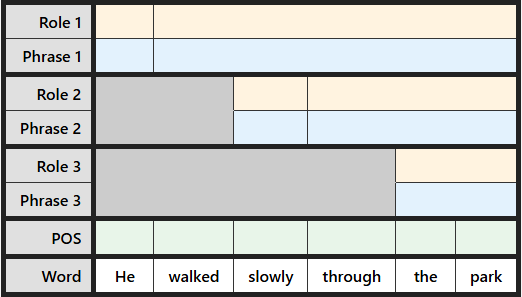
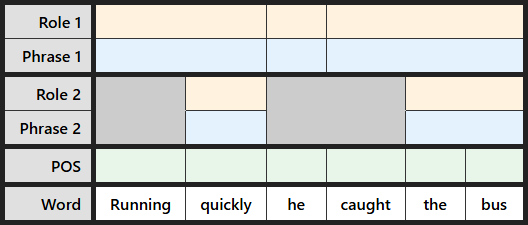
Replace homework Ex 14-16 with NP adverbial, infinitive, and participle sentences
- Ex 14: "The team practiced every afternoon." (NP adverbial)
- Ex 15: "She paused to check her notes." (infinitive adverbial)
- Ex 16: "Running quickly, he caught the bus." (participial adverbial)
Replaced easy AdvP/PP exercises with varied adverbial forms for better practice.

diff --git a/docs/lunr-pretext-search-index.js b/docs/lunr-pretext-search-index.js
@@ -1816,7 +1816,7 @@ var ptx_lunr_docs = [
   "type": "Section",
   "number": "12.9",
   "title": "Homework: Adverbials",
-  "body": " Homework: Adverbials   Part 1: Identification and Classification   Instructions   For each sentence, identify all adverbials, their form, and their semantic role. Use the reference tables below.    Adverbial Forms   AdvP (Adverb Phrase)  PP (Prepositional Phrase)  NP (Noun Phrase)  Infinitive Phrase  Present Participial Phrase  Past Participial Phrase  Dependent Clause     Semantic Role  Question Answered   Time When? How long? How often?  Place Where? In what direction?  Manner How? In what way?  Reason Why? For what reason?  Purpose What for? In order to?  Condition Under what circumstances?  Concession Despite what?    Example (completed)   Yesterday, she worked carefully at the office because she had a deadline.    Adverbial  Form  Semantic Role   Yesterday NP time  carefully AdvP manner  at the office PP place  because she had a deadline Dependent Clause reason    Exercises   Exercise 1.  Last week, the students studied diligently in the library.   Adverbial 1: __________ Form: __________ Semantic role: __________  Adverbial 2: __________ Form: __________ Semantic role: __________  Adverbial 3: __________ Form: __________ Semantic role: __________   Exercise 2.  If you need assistance, call the help desk immediately.   Adverbial 1: __________ Form: __________ Semantic role: __________  Adverbial 2: __________ Form: __________ Semantic role: __________   Exercise 3.  She left early to catch her flight.   Adverbial 1: __________ Form: __________ Semantic role: __________  Adverbial 2: __________ Form: __________ Semantic role: __________     Part 2: Adverbial Scope and Form   Instructions   For each underlined adverbial, state (a) what it modifies and (b) its form. Use the reference tables below.    What Adverbials Can Modify   a verb  an adjective  another adverb  the whole sentence     Adverbial Forms  Example   AdvP (Adverb Phrase) quickly, very carefully  PP (Prepositional Phrase) in the library, with care  NP (Noun Phrase) last week, every morning  Infinitive Phrase to catch the train  Present Participial Phrase knowing the answer  Past Participial Phrase exhausted from the race  Dependent Clause because it rained    Example (completed)   Fortunately , the rain stopped before the game.  Fortunately — modifies: the whole sentence; form: AdvP   Exercises   Exercise 4.  She studied with great focus before the exam.   Modifies: __________  Form: __________   Exercise 5.  Smiling broadly , she accepted the award.   Modifies: __________  Form: __________   Exercise 6.  The results were surprisingly clear.   Modifies: __________  Form: __________   Exercise 7.  He practiced every morning before the competition.   Modifies: __________  Form: __________   Exercise 8.  She left early to catch the train .   Modifies: __________  Form: __________     Part 3: Sentence Completion   Instructions   Add an adverbial of the requested form to complete each sentence.   Example (completed)   Add a dependent clause: __________, you should bring an umbrella.  Answer: If it looks like rain, you should bring an umbrella.   Exercises   Exercise 9. Add a prepositional phrase: __________, the committee will announce its decision.  Answer: __________  Exercise 10. Add a dependent clause: She stayed home __________.  Answer: __________  Exercise 11. Add an infinitive phrase: He went to the store __________.  Answer: __________  Exercise 12. Add a past participial phrase: __________, the runners collapsed at the finish line.  Answer: __________  Exercise 13. Add a present participial phrase: __________, she answered all the questions correctly.  Answer: __________    Part 4: Diagramming Adverbials   Instructions   For each sentence, complete the labeling table (Role, Phrase, Word, POS), write the bracket notation, and draw a tree diagram. Pay special attention to adverbial elements and their phrase types (ADVP, PP, or clausal).   Exercises   Exercise 14.  She spoke very clearly.   Blank labeling table for \"She spoke very clearly\"   Bracket notation: _____ Diagram:  Exercise 15.  The train arrived after midnight.   Blank labeling table for \"The train arrived after midnight\"   Bracket notation: _____ Diagram:  Exercise 16.  He walked slowly through the park.   Blank labeling table for \"He walked slowly through the park\"   Bracket notation: _____ Diagram:  Exercise 17.  Unfortunately, the game was cancelled.   Blank labeling table for \"Unfortunately the game was cancelled\"   Bracket notation: _____ Diagram:  Exercise 18.  She left early because the roads were icy.   Blank labeling table for \"She left early because the roads were icy\"   Bracket notation: _____ Diagram:    Part 5: Analysis and Application   Instructions   Read the passage below and answer the question.   Passage   Yesterday, the researchers finally completed their groundbreaking study. Surprisingly, the results contradicted earlier findings. They had worked diligently for three years because funding was severely limited. Nevertheless, they published their findings in a prestigious journal last month. If additional funding becomes available, they will continue their research next year in a new laboratory.   Exercise   Exercise 19. Identify five adverbials in the passage. For each, state its form and semantic role.   Adverbial 1: __________ Form: __________ Semantic role: __________  Adverbial 2: __________ Form: __________ Semantic role: __________  Adverbial 3: __________ Form: __________ Semantic role: __________  Adverbial 4: __________ Form: __________ Semantic role: __________  Adverbial 5: __________ Form: __________ Semantic role: __________    "
+  "body": " Homework: Adverbials   Part 1: Identification and Classification   Instructions   For each sentence, identify all adverbials, their form, and their semantic role. Use the reference tables below.    Adverbial Forms   AdvP (Adverb Phrase)  PP (Prepositional Phrase)  NP (Noun Phrase)  Infinitive Phrase  Present Participial Phrase  Past Participial Phrase  Dependent Clause     Semantic Role  Question Answered   Time When? How long? How often?  Place Where? In what direction?  Manner How? In what way?  Reason Why? For what reason?  Purpose What for? In order to?  Condition Under what circumstances?  Concession Despite what?    Example (completed)   Yesterday, she worked carefully at the office because she had a deadline.    Adverbial  Form  Semantic Role   Yesterday NP time  carefully AdvP manner  at the office PP place  because she had a deadline Dependent Clause reason    Exercises   Exercise 1.  Last week, the students studied diligently in the library.   Adverbial 1: __________ Form: __________ Semantic role: __________  Adverbial 2: __________ Form: __________ Semantic role: __________  Adverbial 3: __________ Form: __________ Semantic role: __________   Exercise 2.  If you need assistance, call the help desk immediately.   Adverbial 1: __________ Form: __________ Semantic role: __________  Adverbial 2: __________ Form: __________ Semantic role: __________   Exercise 3.  She left early to catch her flight.   Adverbial 1: __________ Form: __________ Semantic role: __________  Adverbial 2: __________ Form: __________ Semantic role: __________     Part 2: Adverbial Scope and Form   Instructions   For each underlined adverbial, state (a) what it modifies and (b) its form. Use the reference tables below.    What Adverbials Can Modify   a verb  an adjective  another adverb  the whole sentence     Adverbial Forms  Example   AdvP (Adverb Phrase) quickly, very carefully  PP (Prepositional Phrase) in the library, with care  NP (Noun Phrase) last week, every morning  Infinitive Phrase to catch the train  Present Participial Phrase knowing the answer  Past Participial Phrase exhausted from the race  Dependent Clause because it rained    Example (completed)   Fortunately , the rain stopped before the game.  Fortunately — modifies: the whole sentence; form: AdvP   Exercises   Exercise 4.  She studied with great focus before the exam.   Modifies: __________  Form: __________   Exercise 5.  Smiling broadly , she accepted the award.   Modifies: __________  Form: __________   Exercise 6.  The results were surprisingly clear.   Modifies: __________  Form: __________   Exercise 7.  He practiced every morning before the competition.   Modifies: __________  Form: __________   Exercise 8.  She left early to catch the train .   Modifies: __________  Form: __________     Part 3: Sentence Completion   Instructions   Add an adverbial of the requested form to complete each sentence.   Example (completed)   Add a dependent clause: __________, you should bring an umbrella.  Answer: If it looks like rain, you should bring an umbrella.   Exercises   Exercise 9. Add a prepositional phrase: __________, the committee will announce its decision.  Answer: __________  Exercise 10. Add a dependent clause: She stayed home __________.  Answer: __________  Exercise 11. Add an infinitive phrase: He went to the store __________.  Answer: __________  Exercise 12. Add a past participial phrase: __________, the runners collapsed at the finish line.  Answer: __________  Exercise 13. Add a present participial phrase: __________, she answered all the questions correctly.  Answer: __________    Part 4: Diagramming Adverbials   Instructions   For each sentence, complete the labeling table (Role, Phrase, Word, POS), write the bracket notation, and draw a tree diagram. Pay special attention to adverbial elements and their phrase types (ADVP, PP, or clausal).   Exercises   Exercise 14.  The team practiced every afternoon.   Blank labeling table for \"The team practiced every afternoon\"   Bracket notation: _____ Diagram:  Exercise 15.  She paused to check her notes.   Blank labeling table for \"She paused to check her notes\"   Bracket notation: _____ Diagram:  Exercise 16.  Running quickly, he caught the bus.   Blank labeling table for \"Running quickly, he caught the bus\"   Bracket notation: _____ Diagram:  Exercise 17.  Unfortunately, the game was cancelled.   Blank labeling table for \"Unfortunately the game was cancelled\"   Bracket notation: _____ Diagram:  Exercise 18.  She left early because the roads were icy.   Blank labeling table for \"She left early because the roads were icy\"   Bracket notation: _____ Diagram:    Part 5: Analysis and Application   Instructions   Read the passage below and answer the question.   Passage   Yesterday, the researchers finally completed their groundbreaking study. Surprisingly, the results contradicted earlier findings. They had worked diligently for three years because funding was severely limited. Nevertheless, they published their findings in a prestigious journal last month. If additional funding becomes available, they will continue their research next year in a new laboratory.   Exercise   Exercise 19. Identify five adverbials in the passage. For each, state its form and semantic role.   Adverbial 1: __________ Form: __________ Semantic role: __________  Adverbial 2: __________ Form: __________ Semantic role: __________  Adverbial 3: __________ Form: __________ Semantic role: __________  Adverbial 4: __________ Form: __________ Semantic role: __________  Adverbial 5: __________ Form: __________ Semantic role: __________    "
 },
 {
   "id": "ch-12-diagram-examples",

diff --git a/docs/ch-12-homework.html b/docs/ch-12-homework.html
@@ -1172,9 +1172,9 @@ section .tabular-box {
 </div>
 <section class="paragraphs" id="ch-12-homework-part4-4"><h4 class="heading"><span class="title">Exercises.</span></h4>
 <div class="autopermalink" data-description="Paragraphs: Exercises"><a href="#ch-12-homework-part4-4" title="Copy heading and permalink for Paragraphs: Exercises" aria-label="Copy heading and permalink for Paragraphs: Exercises">🔗</a></div></section><div class="para" id="ch-12-homework-part4-5">
-<em class="emphasis">Exercise 14.</em> <i class="foreign">She spoke very clearly.</i><div class="autopermalink" data-description="Paragraph"><a href="#ch-12-homework-part4-5" title="Copy heading and permalink for Paragraph" aria-label="Copy heading and permalink for Paragraph">🔗</a></div>
+<em class="emphasis">Exercise 14.</em> <i class="foreign">The team practiced every afternoon.</i><div class="autopermalink" data-description="Paragraph"><a href="#ch-12-homework-part4-5" title="Copy heading and permalink for Paragraph" aria-label="Copy heading and permalink for Paragraph">🔗</a></div>
 </div>
-<div class="image-box" style="width: 50%; margin-left: 25%; margin-right: 25%;"><img src="external/diagrams/new/ch12_hw_student_001.png" class="contained" alt='Blank labeling table for "She spoke very clearly"'></div>
+<div class="image-box" style="width: 55%; margin-left: 22.5%; margin-right: 22.5%;"><img src="external/diagrams/new/ch12_hw_student_001.png" class="contained" alt='Blank labeling table for "The team practiced every afternoon"'></div>
 <ul class="disc" id="ch-12-homework-part4-7">
 <li id="ch-12-homework-part4-7-1">
 <div class="para" id="ch-12-homework-part4-7-1-1">Bracket notation: _____<div class="autopermalink" data-description="Paragraph"><a href="#ch-12-homework-part4-7-1-1" title="Copy heading and permalink for Paragraph" aria-label="Copy heading and permalink for Paragraph">🔗</a></div>
@@ -1188,9 +1188,9 @@ section .tabular-box {
 </li>
 </ul>
 <div class="para" id="ch-12-homework-part4-8">
-<em class="emphasis">Exercise 15.</em> <i class="foreign">The train arrived after midnight.</i><div class="autopermalink" data-description="Paragraph"><a href="#ch-12-homework-part4-8" title="Copy heading and permalink for Paragraph" aria-label="Copy heading and permalink for Paragraph">🔗</a></div>
+<em class="emphasis">Exercise 15.</em> <i class="foreign">She paused to check her notes.</i><div class="autopermalink" data-description="Paragraph"><a href="#ch-12-homework-part4-8" title="Copy heading and permalink for Paragraph" aria-label="Copy heading and permalink for Paragraph">🔗</a></div>
 </div>
-<div class="image-box" style="width: 55%; margin-left: 22.5%; margin-right: 22.5%;"><img src="external/diagrams/new/ch12_hw_student_002.png" class="contained" alt='Blank labeling table for "The train arrived after midnight"'></div>
+<div class="image-box" style="width: 55%; margin-left: 22.5%; margin-right: 22.5%;"><img src="external/diagrams/new/ch12_hw_student_002.png" class="contained" alt='Blank labeling table for "She paused to check her notes"'></div>
 <ul class="disc" id="ch-12-homework-part4-10">
 <li id="ch-12-homework-part4-10-1">
 <div class="para" id="ch-12-homework-part4-10-1-1">Bracket notation: _____<div class="autopermalink" data-description="Paragraph"><a href="#ch-12-homework-part4-10-1-1" title="Copy heading and permalink for Paragraph" aria-label="Copy heading and permalink for Paragraph">🔗</a></div>
@@ -1204,9 +1204,9 @@ section .tabular-box {
 </li>
 </ul>
 <div class="para" id="ch-12-homework-part4-11">
-<em class="emphasis">Exercise 16.</em> <i class="foreign">He walked slowly through the park.</i><div class="autopermalink" data-description="Paragraph"><a href="#ch-12-homework-part4-11" title="Copy heading and permalink for Paragraph" aria-label="Copy heading and permalink for Paragraph">🔗</a></div>
+<em class="emphasis">Exercise 16.</em> <i class="foreign">Running quickly, he caught the bus.</i><div class="autopermalink" data-description="Paragraph"><a href="#ch-12-homework-part4-11" title="Copy heading and permalink for Paragraph" aria-label="Copy heading and permalink for Paragraph">🔗</a></div>
 </div>
-<div class="image-box" style="width: 65%; margin-left: 17.5%; margin-right: 17.5%;"><img src="external/diagrams/new/ch12_hw_student_003.png" class="contained" alt='Blank labeling table for "He walked slowly through the park"'></div>
+<div class="image-box" style="width: 65%; margin-left: 17.5%; margin-right: 17.5%;"><img src="external/diagrams/new/ch12_hw_student_003.png" class="contained" alt='Blank labeling table for "Running quickly, he caught the bus"'></div>
 <ul class="disc" id="ch-12-homework-part4-13">
 <li id="ch-12-homework-part4-13-1">
 <div class="para" id="ch-12-homework-part4-13-1-1">Bracket notation: _____<div class="autopermalink" data-description="Paragraph"><a href="#ch-12-homework-part4-13-1-1" title="Copy heading and permalink for Paragraph" aria-label="Copy heading and permalink for Paragraph">🔗</a></div>

diff --git a/docs/index.html b/docs/index.html
@@ -2,7 +2,7 @@
 <html>
 <!--********************************************-->
 <!--*       Generated from PreTeXt source      *-->
-<!--*       on 2026-04-15T15:20:19-06:00       *-->
+<!--*       on 2026-04-15T15:24:11-06:00       *-->
 <!--*   A recent stable commit (2022-07-01):   *-->
 <!--* 6c761d3dba23af92cba35001c852aac04ae99a5f *-->
 <!--*                                          *-->

diff --git a/scripts/generate_ch12_answer_key.py b/scripts/generate_ch12_answer_key.py
@@ -21,31 +21,31 @@ DIAGRAM_DIR = Path(__file__).parent.parent / 'Homework' / 'diagrams' / 'ch12'
 
 DIAGRAM_EXERCISES = [
     {
-        'num': 14, 'sentence': 'She spoke very clearly.',
-        'words':   ['She', 'spoke', 'very', 'clearly'],
-        'roles':   ['Subj', 'Pred', '', ''],
-        'phrases': ['NP', 'VP', 'ADVP', ''],
-        'pos':     ['PRON', 'V', 'ADV', 'ADV'],
-        'bracket': '[S [NP [PRON She]] [VP [V spoke] [ADVP [ADV very] [ADV clearly]]]]',
-        'diagram': 'ch12_hw_ex14_spoke_clearly',
-    },
-    {
-        'num': 15, 'sentence': 'The train arrived after midnight.',
-        'words':   ['The', 'train', 'arrived', 'after', 'midnight'],
+        'num': 14, 'sentence': 'The team practiced every afternoon.',
+        'words':   ['The', 'team', 'practiced', 'every', 'afternoon'],
         'roles':   ['Subj', '', 'Pred', 'Advl', ''],
-        'phrases': ['NP', '', 'VP', 'PP', ''],
-        'pos':     ['DET', 'N', 'V', 'PREP', 'N'],
-        'bracket': '[S [NP [DET The] [N train]] [VP [V arrived] [PP [PREP after] [NP [N midnight]]]]]',
-        'diagram': 'ch12_hw_ex15_train_arrived',
+        'phrases': ['NP', '', 'VP', 'NP', ''],
+        'pos':     ['DET', 'N', 'V', 'DET', 'N'],
+        'bracket': '[S [NP [DET The] [N team]] [VP [V practiced] [NP [DET every] [N afternoon]]]]',
+        'diagram': 'ch12_hw_ex14_practiced_afternoon',
     },
     {
-        'num': 16, 'sentence': 'He walked slowly through the park.',
-        'words':   ['He', 'walked', 'slowly', 'through', 'the', 'park'],
-        'roles':   ['Subj', 'Pred', '', 'Advl', '', ''],
-        'phrases': ['NP', 'VP', 'ADVP', 'PP', 'NP', ''],
-        'pos':     ['PRON', 'V', 'ADV', 'PREP', 'DET', 'N'],
-        'bracket': '[S [NP [PRON He]] [VP [V walked] [ADVP [ADV slowly]] [PP [PREP through] [NP [DET the] [N park]]]]]',
-        'diagram': 'ch12_hw_ex16_walked_park',
+        'num': 15, 'sentence': 'She paused to check her notes.',
+        'words':   ['She', 'paused', 'to check', 'her', 'notes'],
+        'roles':   ['Subj', 'Pred', 'Advl', '', ''],
+        'phrases': ['NP', 'VP', 'VP', 'NP', ''],
+        'pos':     ['PRON', 'V', 'V', 'DET', 'N'],
+        'bracket': '[S [NP [PRON She]] [VP [V paused] [VP [V to check] [NP [DET her] [N notes]]]]]',
+        'diagram': 'ch12_hw_ex15_paused_check',
+    },
+    {
+        'num': 16, 'sentence': 'Running quickly, he caught the bus.',
+        'words':   ['Running', 'quickly', 'he', 'caught', 'the', 'bus'],
+        'roles':   ['Advl', '', 'Subj', 'Pred', '', ''],
+        'phrases': ['VP', 'ADVP', 'NP', 'VP', 'NP', ''],
+        'pos':     ['V', 'ADV', 'PRON', 'V', 'DET', 'N'],
+        'bracket': '[S [VP [V Running] [ADVP [ADV quickly]]] [NP [PRON he]] [VP [V caught] [NP [DET the] [N bus]]]]',
+        'diagram': 'ch12_hw_ex16_running_caught',
     },
     {
         'num': 17, 'sentence': 'Unfortunately, the game was cancelled.',
